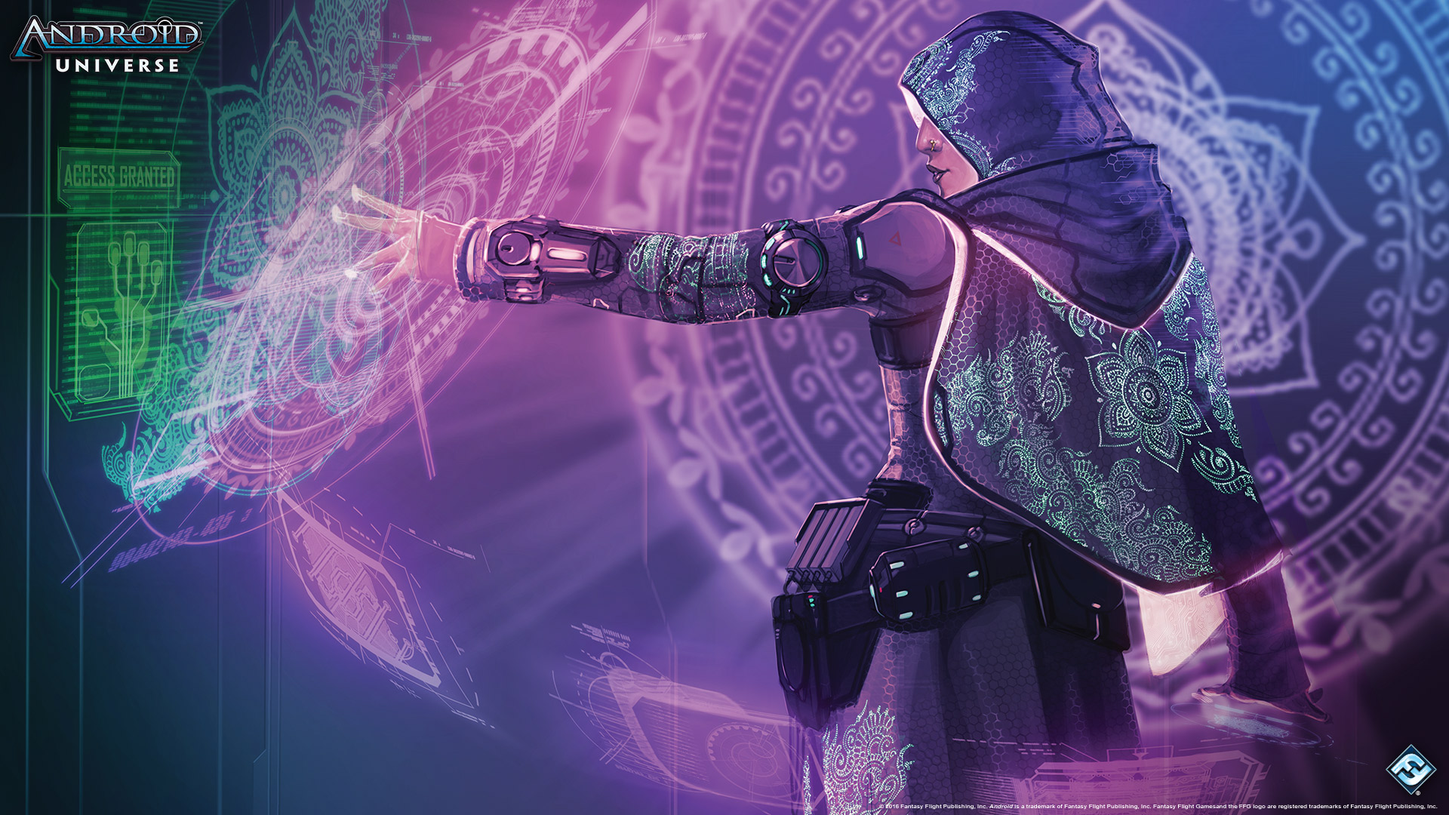
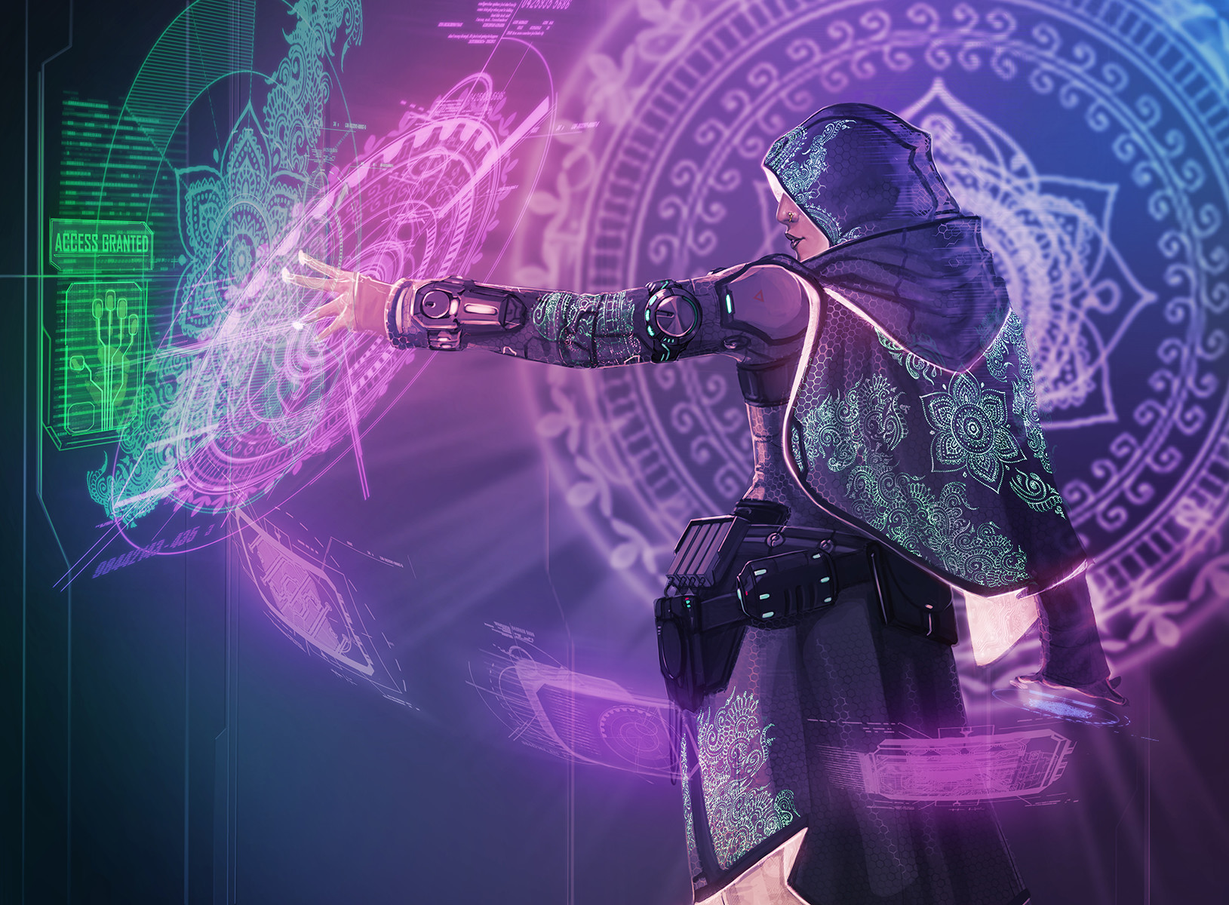
Every menu screen without its own picture stands on the main menu's, and Play vs Computer on the artist's own Maya, with no mark on it
The person asked for the main menu's picture behind Cards and every
other screen that has none, so the neon New Angeles becomes the shared
menu.jpg rather than main-menu.jpg; the main menu keeps its lighter dim
by its own key. That replaces the same_as entries for About and
Settings, and the Dyson Mem Chip backdrop behind Cards is removed with
its credit row.

The Maya backdrop was FFG's Treasures from the Net wallpaper, which
carries the Android Universe mark in its corner. The artist's own copy
on his ArtStation (projects/Wg5x2, the "large" size, 1629 x 1200; the
CDN serves nothing larger) is the bare painting, so it replaces the
wallpaper and the row now points at it.

Claude-Session: https://claude.ai/code/session_01LEBr4hYcrm47HpnAAL6YB4

diff --git a/crates/netrunner_client/src/backdrop.rs b/crates/netrunner_client/src/backdrop.rs
@@ -60,7 +60,7 @@ pub fn candidates(key: &str) -> Vec<String> {
 ///
 /// ```json
 /// { "dim": { "menu": 0.5, "cards": 0.7, "splash": 0.0 },
-///   "same_as": { "about": "main-menu" } }
+///   "same_as": { "deck-editor": "decks" } }
 /// ```
 #[derive(Debug, Clone, Default, PartialEq, Serialize, Deserialize)]
 #[serde(default)]
@@ -71,9 +71,9 @@ pub struct Manifest {
     /// Per key, another key whose picture this screen shows. **A screen
     /// that wants a particular screen's picture says so here rather than
     /// holding a copy of the file**, and rather than the picture becoming
-    /// [`SHARED_KEY`]'s, which would dress every screen nobody drew for:
-    /// About and Settings stand on the main menu's picture while Online
-    /// and Replay keep the drawn ground. One step only — the key named
+    /// [`SHARED_KEY`]'s, which dresses every screen nobody drew for: the
+    /// deck editor stands on the deck list's picture while the other
+    /// screens keep the shared one. One step only — the key named
     /// here is looked up as itself, its own entry unread — so no chain
     /// can loop. The dim stays the screen's own.
     pub same_as: BTreeMap<String, String>,

diff --git a/crates/netrunner_desktop/src/backdrop.rs b/crates/netrunner_desktop/src/backdrop.rs
@@ -183,13 +183,14 @@ mod tests {
         assert!(!backdrops.basic && backdrops.pictures.contains_key("main-menu"));
     }
 
-    /// About, Settings and the deck editor show another screen's picture,
-    /// and that picture's file is committed.
+    /// The deck editor shows the deck list's picture, and every picture a
+    /// screen borrows — the shared one included — is committed.
     #[test]
     fn a_borrowed_picture_is_a_committed_one() {
         let manifest = Manifest::parse(include_str!("../assets/backdrops/backdrops.json"));
-        for (screen, picture) in [("about", "main-menu"), ("settings", "main-menu"), ("deck-editor", "decks")] {
-            assert_eq!(manifest.picture_key(screen), picture);
+        assert!(crate::assets::read(&format!("{DIR}/{}.jpg", netrunner_client::backdrop::SHARED_KEY)).is_some(), "the shared picture is committed");
+        assert_eq!(manifest.picture_key("deck-editor"), "decks");
+        for picture in manifest.same_as.values() {
             assert!(crate::assets::read(&format!("{DIR}/{picture}.jpg")).is_some(), "{picture}.jpg is committed");
         }
     }

diff --git a/ROADMAP.md b/ROADMAP.md
@@ -29,7 +29,7 @@ Code and docs address entries as `ROADMAP <phase> §<n>` — "Phase 2 §5", "Rul
 
 **The player-facing series was built and merged on 13 September 2026** (#11–#16): deck styles that a rung keeps, two new Runner styles (and the measured absence of a fourth Corp one), a rating for local play with a suggested rung, the daemon seating a rung, a start screen, and the player's own hand drawn. None touches the rules; the random-vs-random report is byte-identical throughout. **A person then played it, and the verdict was that it is driven too much by switches** — which is Phase 6:
 
-1. **Phase 7, the desktop client**, one PR a phase (§1 foundations, §2 card faces and the browser, and §3 the play area — the `MatchHandle`, the `ActionMap` and the view-diff `Transition`s — are built): §4 feel — done first (§4a): a click never submits by itself and the actions live on the cards and the zones, behind a control bar and a gear menu; the official card backs are cached on the images opt-in, and the board is the table seen from the chair (servers and ice in the rules' order); and a secondary click opens a card's or a zone's actions as a menu above it (decks as stacks was dropped); §4b made a server column one stack of tiles and a run a paced trail in a lane of its own; §4e took a lone `Pass priority` without a click in both clients; §4f put each side's numbers in a HUD of fixed places; §4g made the primary click open a card's actions and the secondary click read it (the card, an install's state, a zone's contents), the first of the person's second list; §4h put the bar's and the pop-up's buttons on keys (Enter asks twice with clicks left) with a list on `?` — §4h put the bar's and the pop-up's buttons on keys (Enter asks twice with clicks left) with a list on `?`; §4i–§4l finished that list — one server order from both chairs, a phase bar, and a hand card dragged to reorder it or onto a lit place to play it; **the person's third list (noted 17 September 2026) is how the board looks**, and its first two items are built: §4m put a table under the board carrying the depth (no 3D — costed, deferred, and the first reason given for rejecting it was wrong), and §4n made every tile, header, button and chip take artist-made art through nine-slice without letting it change a size; §4o then answered a report from play rather than the list — an access shows the card instead of only its name, in both clients, with its actions under it (the second exception to "a reading surface carries no actions", after the score area, because an accessed card has no tile to click); §4p answered a second ask from outside the lists — the board now glows what the engine will accept, purple for a move at the person's own pace and yellow for a moment that will pass, in both clients, which is the debt §4g opened; §4q then closed the third list's item 1 with the contact shadows that sit the cards on the field, sharing the glow's one `BoxShadow`; still owed from that list are the panels/menus/icons and a server's own mark, the fanned hand and the hovered card, an avatar and a lit/muted bar per side, and the right side earning its width; then the other transitions turned into movement and sound; §5 the deck builder; §6 lessons and replay; §7 online. **The running queue is now §8, the eleven features borrowed from jinteki.net** (renumbered from §5 on 19 September 2026, which had collided with the deck builder's address): items 1–3 are done — the three-row rig, auto-pump-and-break, and the marked subroutines — item 4 — a card says what it will ask, and a move can be taken back — is done (§4ae, §4af), and item 5, a replay viewer over `MatchHistory`, is done (§4ah: a saved game steps on the board from either chair, from Replays on the menu; notes still owed); items 7 and 12 are done together (§4ai: one Continue button in place of Pass priority, Continue run and Complete run, naming the step it takes the game to, with Space as its key), and item 6, the Corp's run auto-pass, was moved to the end of the list at the person's request; item 13 is done (§4aj: the ICE being encountered takes the run panel — its art, type line, strength against the printed one and every subroutine marked — with the art giving way on a short window; §4ak then moved the phase panel to the column's foot so the run panel holds still), item 9 is done (§4al: identical rig cards are one card with a count, split the moment anything tells them apart), and §4am answered a report from play (an Urtica Cipher's damage the log never named, a HUD "Damage" that counted only core damage, and a trap's rez that held the Corp in every window), item 8 is done (§4an: a Trojan sits on its ice as a button of its own, and its place in the program row is a ghost that is still the same click, in both clients), item 10 is done (§4ao: T or a press on the phase panel opens the rules' timing charts — turn, run, breach, access — with the step in play lit, in this project's words and the rules' numbers), item 14 is done (§4ap: a card's "you may" can be answered Always or Never from its prompt, kept across games in the shared settings file and honoured by both clients; §4aq: the Corp passes the rest of a run with one press, off again when the run ends (item 6, both clients); paid choices still ask), item 20 is done (§4ar: Archives, the Heap and the other zone sheets draw their cards at 220 px, four across and up to three rows (fewer where the window is shorter) before the box scrolls, and a press on one opens it large — that press had been dropped), item 21 is done (§4as: a card, an install, a zone or the timing chart opened only to read sits at the right over the right column under a light wash, so the field stays in view; the decision pop-up, the forms and the questions stay centred), item 17 is done (§4at: a card's name in the match log is a span in the accent that opens the card, linked only among the cards the masked entry and view name), item 16 is done (§4au: the mulligan is a start-of-game box — both identities and the whole opening hand over Keep and Mulligan — and the end of the match has a table of what each side did, counted off the chair's masked log by `netrunner_client::tally`), item 18 is done (§4av: the two glows, measured under simulated protanopia, deuteranopia and tritanopia, were invisible beside the faction border they sit on — yellow on NBN for everyone, purple on Criminal under protanopia — and are now a light lavender and a pale yellow, at least 0.12 OKLab from every border, held by a test); item 19, open decklists and an offered hand sort, was dropped at the person's request; item 11 was dropped. §4aw answered an ask from outside the list: menus are translucent blue glass over a drawn gradient, buttons are pills in three kinds, and the new-game form is laid out as choices (side cards, rung and style pills) rather than five drop-downs; §4ax recoloured it after the *Android* cover (a teal sky into a violet night, icy white-blue highlights) and made a drop-down's list open toward the side with room, capped at the window, with a scroll bar and the keys. §4ay made the client ship its art (24 September 2026): a work under no licence is committed with its owner and artist credited and removed if they ask, and the splash and main menu stand on Kirsten Zirngibl's *New Angeles in Neon/Smog*. §4az ships both printings' card backs, Null Signal Games' and Fantasy Flight Games', chosen in Settings, in place of fetching NSG's from jinteki.net. §4ba puts backdrops behind the deck builder, Play vs Computer and the card browser, lets About and Settings borrow the main menu's picture by name (`same_as`), and shadows the menu's title. §4ai also found an engine leak, fixed on its own branch: a paid choice declined into "end the run" left the run's window open with no run, so `run::end_run` now closes a run's window with the run (random-vs-random `PassPriority` 43,007 → 42,865, outcomes identical). **§5, the deck builder, is built** (24 September 2026): a Decks screen of tiles — the person's decks, then every built-in one to copy — each with its legality in the Settings format, an editor that saves every edit whatever the deck's standing, import and export through the clipboard or a dropped file, and saved decks in the new-game form for either chair, an illegal one listed with its reason and refused at Start. **§5a** (24 September 2026) made its cards readable: the pool fills its row with cards of 260–340 px, the identity pickers draw identities at 260; **§5b** replaced its hover preview, which the person found annoying and too large, with a right-click that reads a card centred at the board sheet's size and closes on a click away (`widgets::reader`); **§5c** sorts the shelf by name, side, faction or format with faction and format filters, and narrows the pool by set (release order read off the codes), format, playability and six sorts. §6 lessons and replay and §7 online remain. **The work that interrupted that queue is done** (20–21 September 2026). Rules Audit backlog item 1 (one event queue, one audience rule, one checkpoint) was taken first, because it is the one engine gap that gets more expensive with every card, and landed as five PRs (#91–#95). Backlog items 2–8 and the Rules Conformance series followed it (#96–#133). Their stages and measurements are in the area files. The order and the reasons are in the area file's header.
+1. **Phase 7, the desktop client**, one PR a phase (§1 foundations, §2 card faces and the browser, and §3 the play area — the `MatchHandle`, the `ActionMap` and the view-diff `Transition`s — are built): §4 feel — done first (§4a): a click never submits by itself and the actions live on the cards and the zones, behind a control bar and a gear menu; the official card backs are cached on the images opt-in, and the board is the table seen from the chair (servers and ice in the rules' order); and a secondary click opens a card's or a zone's actions as a menu above it (decks as stacks was dropped); §4b made a server column one stack of tiles and a run a paced trail in a lane of its own; §4e took a lone `Pass priority` without a click in both clients; §4f put each side's numbers in a HUD of fixed places; §4g made the primary click open a card's actions and the secondary click read it (the card, an install's state, a zone's contents), the first of the person's second list; §4h put the bar's and the pop-up's buttons on keys (Enter asks twice with clicks left) with a list on `?` — §4h put the bar's and the pop-up's buttons on keys (Enter asks twice with clicks left) with a list on `?`; §4i–§4l finished that list — one server order from both chairs, a phase bar, and a hand card dragged to reorder it or onto a lit place to play it; **the person's third list (noted 17 September 2026) is how the board looks**, and its first two items are built: §4m put a table under the board carrying the depth (no 3D — costed, deferred, and the first reason given for rejecting it was wrong), and §4n made every tile, header, button and chip take artist-made art through nine-slice without letting it change a size; §4o then answered a report from play rather than the list — an access shows the card instead of only its name, in both clients, with its actions under it (the second exception to "a reading surface carries no actions", after the score area, because an accessed card has no tile to click); §4p answered a second ask from outside the lists — the board now glows what the engine will accept, purple for a move at the person's own pace and yellow for a moment that will pass, in both clients, which is the debt §4g opened; §4q then closed the third list's item 1 with the contact shadows that sit the cards on the field, sharing the glow's one `BoxShadow`; still owed from that list are the panels/menus/icons and a server's own mark, the fanned hand and the hovered card, an avatar and a lit/muted bar per side, and the right side earning its width; then the other transitions turned into movement and sound; §5 the deck builder; §6 lessons and replay; §7 online. **The running queue is now §8, the eleven features borrowed from jinteki.net** (renumbered from §5 on 19 September 2026, which had collided with the deck builder's address): items 1–3 are done — the three-row rig, auto-pump-and-break, and the marked subroutines — item 4 — a card says what it will ask, and a move can be taken back — is done (§4ae, §4af), and item 5, a replay viewer over `MatchHistory`, is done (§4ah: a saved game steps on the board from either chair, from Replays on the menu; notes still owed); items 7 and 12 are done together (§4ai: one Continue button in place of Pass priority, Continue run and Complete run, naming the step it takes the game to, with Space as its key), and item 6, the Corp's run auto-pass, was moved to the end of the list at the person's request; item 13 is done (§4aj: the ICE being encountered takes the run panel — its art, type line, strength against the printed one and every subroutine marked — with the art giving way on a short window; §4ak then moved the phase panel to the column's foot so the run panel holds still), item 9 is done (§4al: identical rig cards are one card with a count, split the moment anything tells them apart), and §4am answered a report from play (an Urtica Cipher's damage the log never named, a HUD "Damage" that counted only core damage, and a trap's rez that held the Corp in every window), item 8 is done (§4an: a Trojan sits on its ice as a button of its own, and its place in the program row is a ghost that is still the same click, in both clients), item 10 is done (§4ao: T or a press on the phase panel opens the rules' timing charts — turn, run, breach, access — with the step in play lit, in this project's words and the rules' numbers), item 14 is done (§4ap: a card's "you may" can be answered Always or Never from its prompt, kept across games in the shared settings file and honoured by both clients; §4aq: the Corp passes the rest of a run with one press, off again when the run ends (item 6, both clients); paid choices still ask), item 20 is done (§4ar: Archives, the Heap and the other zone sheets draw their cards at 220 px, four across and up to three rows (fewer where the window is shorter) before the box scrolls, and a press on one opens it large — that press had been dropped), item 21 is done (§4as: a card, an install, a zone or the timing chart opened only to read sits at the right over the right column under a light wash, so the field stays in view; the decision pop-up, the forms and the questions stay centred), item 17 is done (§4at: a card's name in the match log is a span in the accent that opens the card, linked only among the cards the masked entry and view name), item 16 is done (§4au: the mulligan is a start-of-game box — both identities and the whole opening hand over Keep and Mulligan — and the end of the match has a table of what each side did, counted off the chair's masked log by `netrunner_client::tally`), item 18 is done (§4av: the two glows, measured under simulated protanopia, deuteranopia and tritanopia, were invisible beside the faction border they sit on — yellow on NBN for everyone, purple on Criminal under protanopia — and are now a light lavender and a pale yellow, at least 0.12 OKLab from every border, held by a test); item 19, open decklists and an offered hand sort, was dropped at the person's request; item 11 was dropped. §4aw answered an ask from outside the list: menus are translucent blue glass over a drawn gradient, buttons are pills in three kinds, and the new-game form is laid out as choices (side cards, rung and style pills) rather than five drop-downs; §4ax recoloured it after the *Android* cover (a teal sky into a violet night, icy white-blue highlights) and made a drop-down's list open toward the side with room, capped at the window, with a scroll bar and the keys. §4ay made the client ship its art (24 September 2026): a work under no licence is committed with its owner and artist credited and removed if they ask, and the splash and main menu stand on Kirsten Zirngibl's *New Angeles in Neon/Smog*. §4az ships both printings' card backs, Null Signal Games' and Fantasy Flight Games', chosen in Settings, in place of fetching NSG's from jinteki.net. §4ba puts card art behind the deck builder and Play vs Computer, makes the main menu's picture the one every other menu screen stands on, and shadows the menu's title. §4ai also found an engine leak, fixed on its own branch: a paid choice declined into "end the run" left the run's window open with no run, so `run::end_run` now closes a run's window with the run (random-vs-random `PassPriority` 43,007 → 42,865, outcomes identical). **§5, the deck builder, is built** (24 September 2026): a Decks screen of tiles — the person's decks, then every built-in one to copy — each with its legality in the Settings format, an editor that saves every edit whatever the deck's standing, import and export through the clipboard or a dropped file, and saved decks in the new-game form for either chair, an illegal one listed with its reason and refused at Start. **§5a** (24 September 2026) made its cards readable: the pool fills its row with cards of 260–340 px, the identity pickers draw identities at 260; **§5b** replaced its hover preview, which the person found annoying and too large, with a right-click that reads a card centred at the board sheet's size and closes on a click away (`widgets::reader`); **§5c** sorts the shelf by name, side, faction or format with faction and format filters, and narrows the pool by set (release order read off the codes), format, playability and six sorts. §6 lessons and replay and §7 online remain. **The work that interrupted that queue is done** (20–21 September 2026). Rules Audit backlog item 1 (one event queue, one audience rule, one checkpoint) was taken first, because it is the one engine gap that gets more expensive with every card, and landed as five PRs (#91–#95). Backlog items 2–8 and the Rules Conformance series followed it (#96–#133). Their stages and measurements are in the area files. The order and the reasons are in the area file's header.
 2. **A person playing Phase 6**: the menu, the deck builder and online play are each driven by hand in tmux, but not yet by someone playing a real game end to end, or online across two machines.
 3. **The Corp chair has no top rung** (15 September 2026, Phase 5 §2): the ladder calibration ran at 768 games a cell, both chairs climb at every step, and the finding it was not looking for is that `level:elite` as Corp wins **0.266** against the un-handicapped one-ply Runner — 0.714 before the Runner's evaluator changed. A Runner-seated player runs out of ladder at rung 5, which is the Runner chair's old cap transferred, and the lever is the Corp evaluator rather than search budget (Phase 2 §5 item 34: it saturates from 512 simulations on). A fourth Corp style needs a card-reading lever the one-ply evaluator does not have. **Revisit the Corp rung spacing, how its top rungs are built, and whether the bots can play in phases at all — Phase 5 §4, opened 16 September 2026; §5 is the first work against it and is the instrument, not the change.** **The last of those is closed (22 September 2026, Phase 5 §19)**: a phase dial loses on the Corp chair as on the Runner's. What the Corp lacked was not a *when* but a *where*, and §19's fort terms put `glacier`'s one-ply Corp at 0.462. As first written: `evaluate_state_with` is a static function of the position, scoring a board the same on turn 1 and turn 20, so the Corp interleaves building and scoring every turn (13.0 installs and 6.3 advancements over 11.4 turns) where a person banks economy and builds the wall and *then* pushes an agenda behind it. The archetypes already name the two halves — `Glacier` "build the fort first", `Rush` "the agenda goes on the table first" — as static whole-game profiles that cannot be sequenced, and balanced beats both (0.198 against 0.174 and 0.109), which is what a pair of half-game strategies would look like. The deck half is already wired (`Personality::for_deck`, and an unset `--corp-personality` *is* the deck's own style); what is fixed for the whole game is the strategy. `GameState::turn` makes a schedule implementable, but `Trap`'s retune is the warning against it — that profile only worked once it was terms that read the cards rather than generic dials — so the first attempt should be terms that move with the board (agenda points still needed, credits against the rez costs already face-down, whether a scoring remote exists) with the turn counter as the fallback to beat. **First cut taken 16 September 2026** (Phase 5 §3, `feat/corp-reads-the-rig`): the Corp now prices ICE by what it stops rather than what it cost (Pharos rezzed 0.26 → 0.52), worth +0.017 to +0.033 at 768 games depending on the style mode — a rise on all eight seed-pairings but under the significance bar on either alone. **It also compressed the Corp ladder, which is the more useful finding**: a better leaf lifts `operator` (one ply, +0.016) and not `veteran` (`puct@512`, +0.000), so the `operator → veteran` step fell +0.055 → +0.039 and reads `flat` on one seed of two where both were `rise` before. Search saturation (Phase 2 §5 item 34) seen from the ladder: lookahead already finds the rez decision the leaf term encodes. **Phase 5 §4 is the owed follow-up, in two parts and in this order**: (b) reconsider how the Corp's top two rungs are built, because `veteran`/`elite` are `puct@512` over the same leaf and a better leaf buys them +0.000 — search budget and evaluator quality are the same lever twice and both are spent, so the measured candidate is a *card-reading* one (`trap` at 0.259 against balanced's 0.204) rather than deeper search; then (a) re-space the Corp rungs, where `operator` is the rung out of place (0.182 against an even-step target of 0.144) and wants a handicap of its own, with its own measured `epsilon` curve because this chair's is visibly not the Runner's near-linear one. Doing (a) first would measure a spacing around a top rung about to be rebuilt — the mistake §2's first Runner calibration already made once. The ceiling is still open — the measured next lever is the ambush terms the balanced Corp switches off by design (`trap` 0.259 against balanced 0.204, chair-isolated). **The `operator` Runner ran Archives three times into known damage and never drew a card** (a person's first desktop game, 15 September 2026, Phase 7 §3) — **fixed the same day** (Phase 2 §5a, reopened): a run is now worth what the breach can find and a card in grip half of what installing it would be. Over 96 heuristic games the Runner's runs fell 3,400 → 1,831 (Archives 627 → 71), draws rose 126 → 332, trashes 12 → 82, and its wins 45 → 81. That made the one-ply Runner the strongest Runner in the workspace, and the Runner ladder's top two rungs are re-seated on it (Phase 5 §2); the calibration above is now overdue rather than optional. Still open from that game: the economy-blind install (nothing costing 3+ is ever installed), the next Runner term. **§4(b) has its first answer (22 September 2026, Phase 5 §21):** `glacier`'s Corp ladder is one ply at five handicaps (ε 1.0 / 0.22 / 0.11 / 0.05 / 0.0), since one ply beat its `puct@512` rungs once it built the fort; it now climbs 0.012 / 0.142 / 0.223 / 0.329 / 0.430, every step a rise on each seed. **§22 re-took the rest (23 September 2026):** the Corp's `apprentice` is ε 0.25; `Balanced`'s and `trap`'s `veteran` cannot be spaced (their `operator → elite` span is 0.047–0.068, and ε 0.03 read level with `elite` on the shipped table), so it is left at 0.20 / 0.15. The Runner ladder needs nothing. The one-ply style matrix puts `glacier` at 0.34–0.54 on every deck group against 0.09–0.16 for the others, so the owed top-rung work is the fort terms in every Corp profile, or `glacier` at the top of every deck's ladder. **§23 took the first (23 September 2026):** the fort terms are the balanced constants every Corp profile inherits, and one ply lifts `Balanced` 0.138 → 0.421, `trap` 0.150 → 0.427 and `rush` 0.100 → 0.439 (`glacier` 0.466) — `glacier`'s lead held against the random and `puct@128` Runners too, so it was never an exploit of the one-ply Runner. **§24 re-took every Corp ladder on it (23 September 2026):** one ply now beat `puct@512` in every style (`operator` 0.410–0.426 against `elite` 0.324–0.326 and `veteran` 0.151–0.178), and all four styles lie on `glacier`'s ε curve. So every Corp ladder is `glacier`'s: one ply at 1.0 / 0.22 / 0.11 / 0.05 / 0.0, with no per-style exception left (`trap`'s `veteran` ε, `rush`'s `Balanced` top rungs and `glacier`'s own table are gone). It climbs 0.012 / 0.12–0.14 / 0.21–0.26 / 0.32–0.33 / 0.41–0.43, every step a rise on each seed in each style. §4(b) is closed.
 4. **Server-tracked rating, stage (a) first** (Phase 4 §5, design recorded 20 September 2026): the server keeps the match record it now throws away — no protocol change — then keypair identity, then signed receipts. Nothing local is rated any more (Phase 3 §2), so until stage (c) the only rating anywhere is a daemon's, under an unverified name.

diff --git a/crates/netrunner_desktop/assets/CREDITS.md b/crates/netrunner_desktop/assets/CREDITS.md
@@ -69,11 +69,10 @@ a drawn or synthesized tier that works without it (AGENTS.md §5).
 |---|---|---|---|---|---|---|---|
 | `fonts/NotoSans-Regular.ttf` | Noto Sans, the body font | The Noto Project Authors | https://notofonts.github.io | OFL-1.1 | `fonts/LICENSE-OFL.txt` | third-party | none |
 | `fonts/NotoSansSymbols2-Regular.ttf` | Noto Sans Symbols 2, the printed-icon fallback | The Noto Project Authors | https://notofonts.github.io | OFL-1.1 | `fonts/LICENSE-OFL.txt` | third-party | none |
-| `backdrops/main-menu.jpg` | New Angeles in Neon/Smog, neon version: the main menu's backdrop | Kirsten Zirngibl | https://www.kirstenzirngibl.com/projects/RgWqA | All rights reserved | — | third-party | none |
+| `backdrops/menu.jpg` | New Angeles in Neon/Smog, neon version: the shared backdrop, behind the main menu and every screen without a picture of its own | Kirsten Zirngibl | https://www.kirstenzirngibl.com/projects/RgWqA | All rights reserved | — | third-party | none |
 | `backdrops/splash.jpg` | New Angeles in Neon/Smog, smog version: the splash | Kirsten Zirngibl | https://www.kirstenzirngibl.com/projects/RgWqA | All rights reserved | — | third-party | none |
 | `backdrops/decks.jpg` | *The Personal Touch*, card art (Revised Core Set), © Fantasy Flight Games: the deck list's and deck editor's backdrop | Aurore Folny | https://aurorefolny.com/albums/592963 | All rights reserved | — | third-party | none |
-| `backdrops/new-game.jpg` | *Maya*, card art (Kala Ghoda), © Fantasy Flight Games, as FFG's 2016 *Treasures from the Net* wallpaper: the Play vs Computer backdrop | Adam Schumpert | https://adamschumpert.com | All rights reserved | — | third-party | none |
-| `backdrops/cards.jpg` | *Dyson Mem Chip*, card art (Core Set), © Fantasy Flight Games & Wizards of the Coast, the copy jinteki.net ships at mtgred/netrunner `resources/public/img/bg/DysonMemChip.jpg`: the card browser's backdrop | JB Casacop | https://www.artstation.com/jbcasacop | All rights reserved | — | third-party | none |
+| `backdrops/new-game.jpg` | *Maya*, card art (Kala Ghoda), © Fantasy Flight Games, the artist's own copy from his ArtStation (`adamschumpert.artstation.com/projects/Wg5x2`): the Play vs Computer backdrop | Adam Schumpert | https://adamschumpert.artstation.com/projects/Wg5x2 | All rights reserved | — | third-party | none |
 | `cards/backs/ffg/back-corp.png` | the Corp card back, Fantasy Flight Games' printing, the copy jinteki.net ships at mtgred/netrunner `resources/public/img/card-backs/corp/ffg.png` | Fantasy Flight Games | https://www.fantasyflightgames.com | All rights reserved | — | third-party | none |
 | `cards/backs/ffg/back-runner.png` | the Runner card back, Fantasy Flight Games' printing, the copy jinteki.net ships at mtgred/netrunner `resources/public/img/card-backs/runner/ffg.png` | Fantasy Flight Games | https://www.fantasyflightgames.com | All rights reserved | — | third-party | none |
 | `cards/backs/nsg/back-corp.png` | the Corp card back, Null Signal Games' printing, the copy jinteki.net ships at mtgred/netrunner `resources/public/img/card-backs/corp/nsg.png` | Null Signal Games | https://nullsignal.games | All rights reserved | — | third-party | none |

diff --git a/docs/roadmap/phase-7-desktop-client.md b/docs/roadmap/phase-7-desktop-client.md
@@ -4501,31 +4501,32 @@ ships in its own repository (`mtgred/netrunner`,
   constants and their two errors) had no caller and was removed, and the
   "Fetched" credit row for the backs became four register rows.
 
-### 4ba. The deck builder, Play vs Computer and the card browser have backdrops, and the menu's title a shadow — DONE (24 September 2026)
+### 4ba. The deck builder and Play vs Computer have backdrops, every other menu screen the main menu's, and the menu's title a shadow — DONE (24 September 2026)
 
-The person picked the pictures. All three are committed under the "Art
-under no licence" rule of §4ay, each credited to its artist with their
-website (`assets/CREDITS.md`), unchanged:
+The person picked the pictures. Both new ones are committed under the
+"Art under no licence" rule of §4ay, each credited to its artist with
+their website (`assets/CREDITS.md`), unchanged:
 
 - **Decks and the deck editor**: Aurore Folny's *The Personal Touch*
   (Revised Core Set), `backdrops/decks.jpg`.
-- **Play vs Computer**: Adam Schumpert's *Maya* (Kala Ghoda), as
-  Fantasy Flight Games' 2016 *Treasures from the Net* wallpaper,
-  `backdrops/new-game.jpg`. The wallpaper carries no artist credit; the
-  artist was read off the card, whose art it is.
-- **Cards**: JB Casacop's *Dyson Mem Chip* (Core Set), the copy
-  jinteki.net ships at `resources/public/img/bg/DysonMemChip.jpg`,
-  `backdrops/cards.jpg`, dimmed 0.6 under the grid of faces.
-- **About and Settings** show the main menu's picture.
+- **Play vs Computer**: Adam Schumpert's *Maya* (Kala Ghoda),
+  `backdrops/new-game.jpg`, 1629 × 1200 from his own ArtStation. The
+  first copy was Fantasy Flight Games' 2016 *Treasures from the Net*
+  wallpaper, 1920 × 1080 but with the *Android Universe* mark in its
+  corner; the person asked for one without it, and the artist's copy is
+  the bare painting.
+- **Every other screen stands on the main menu's picture**: the neon
+  *New Angeles* is now the shared `menu.jpg` rather than `main-menu.jpg`,
+  so Cards, About, Settings, Online, Learn to Play, Profile and Replay
+  all show it, and the main menu keeps its own lighter dim (0.35) by its
+  key. JB Casacop's *Dyson Mem Chip* was committed behind Cards on the
+  first pass and removed at the person's request, with its row.
 
 **A screen borrows another's picture by name, not by a copy.**
 `backdrops.json` gained `same_as` (`netrunner_client::backdrop::Manifest`,
-one step, the dim still the screen's own): About and Settings name
-`main-menu`, the deck editor names `decks`. Renaming `main-menu.jpg` to
-the shared `menu.jpg` was the other way, and was not taken because it
-would also have dressed Online, Learn to Play, Profile and Replay, which
-nobody asked for. A decoded picture is cached under the key its files
-came from, so two screens showing one decode it once.
+one step, the dim still the screen's own), which the deck editor uses to
+show `decks`. A decoded picture is cached under the key its files came
+from, so two screens showing one decode it once.
 
 **The main menu's NETRUNNER has a drop shadow** (`widgets::title_shadow`):
 the neon *New Angeles* has a near-white sky, and the accent's icy blue

diff --git a/crates/netrunner_desktop/assets/backdrops/README.md b/crates/netrunner_desktop/assets/backdrops/README.md
@@ -10,14 +10,14 @@ and a test fails if a screen's key is missing from this page. So when a
 screen is added, its row appears here in the same change, and there is
 somewhere to put its picture before the picture exists.
 
-Five pictures are committed here: Kirsten Zirngibl's *New Angeles in
+Four pictures are committed here: Kirsten Zirngibl's *New Angeles in
 Neon/Smog*, the smog version behind the splash (`splash.jpg`) and the
-neon one behind the main menu (`main-menu.jpg`), which About and
-Settings show too; Aurore Folny's *The Personal Touch* behind the deck
-list and the deck editor (`decks.jpg`); Adam Schumpert's *Maya* behind
-Play vs Computer (`new-game.jpg`); and JB Casacop's *Dyson Mem Chip*
-behind the card browser (`cards.jpg`). `backdrops.json` sets how much
-each is dimmed and which screens borrow another's picture. All are
+neon one as the shared picture (`menu.jpg`), behind the main menu and
+every screen without a picture of its own; Aurore Folny's *The Personal
+Touch* behind the deck list and the deck editor (`decks.jpg`); and Adam
+Schumpert's *Maya* behind Play vs Computer (`new-game.jpg`).
+`backdrops.json` sets how much each is dimmed and which screens borrow
+another's picture. All are
 all rights reserved, shipped with credit and removed if their owners ask
 (`../CREDITS.md`). A screen with no
 picture of its own and no `menu.jpg` is the
@@ -109,7 +109,7 @@ file: `same_as` names, per key, the key whose files it is looked up
 under. Its dim is still its own.
 
 ```json
-{ "same_as": { "about": "main-menu", "deck-editor": "decks" } }
+{ "same_as": { "deck-editor": "decks" } }
 ```
 
 That is different from `menu.jpg`, which dresses *every* screen with no
